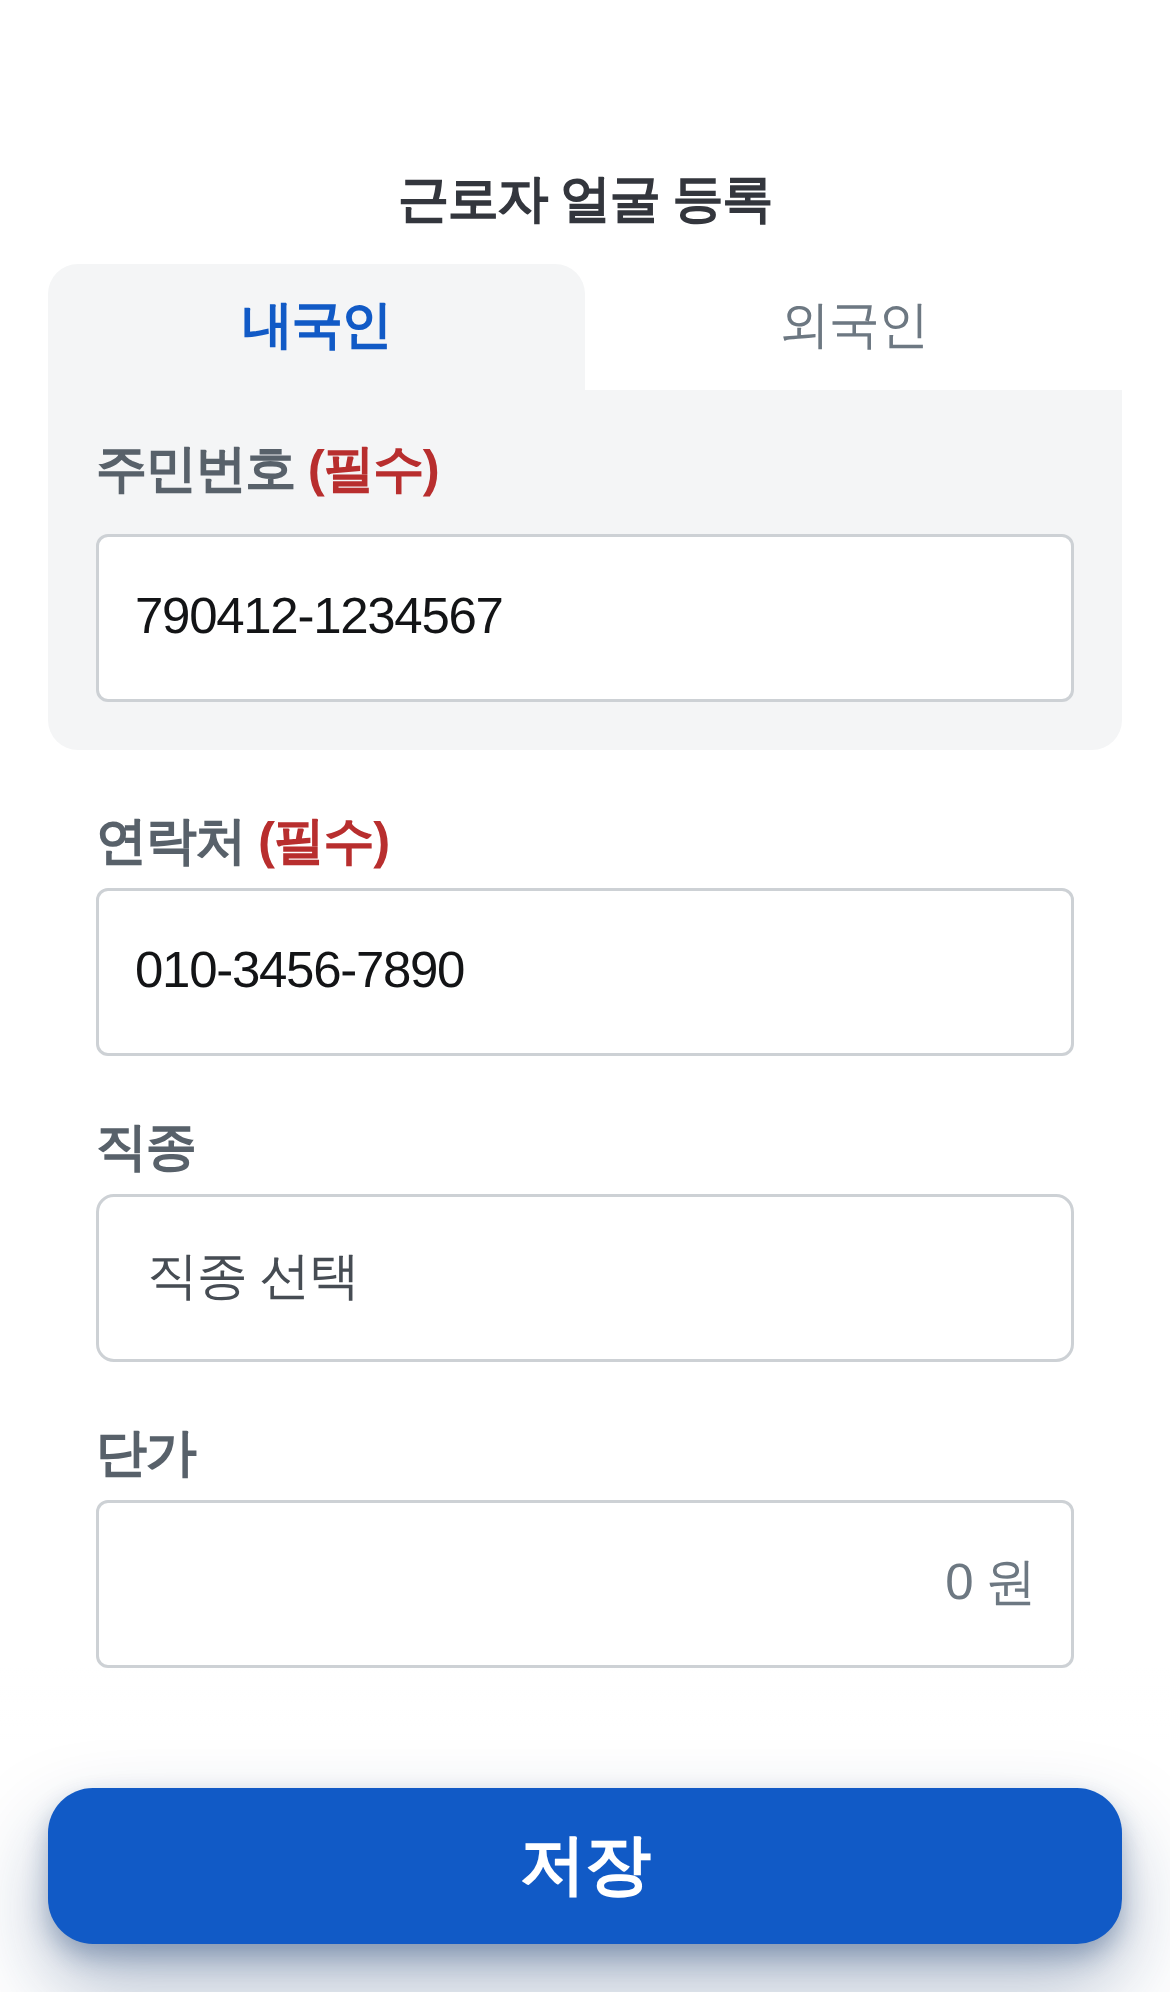
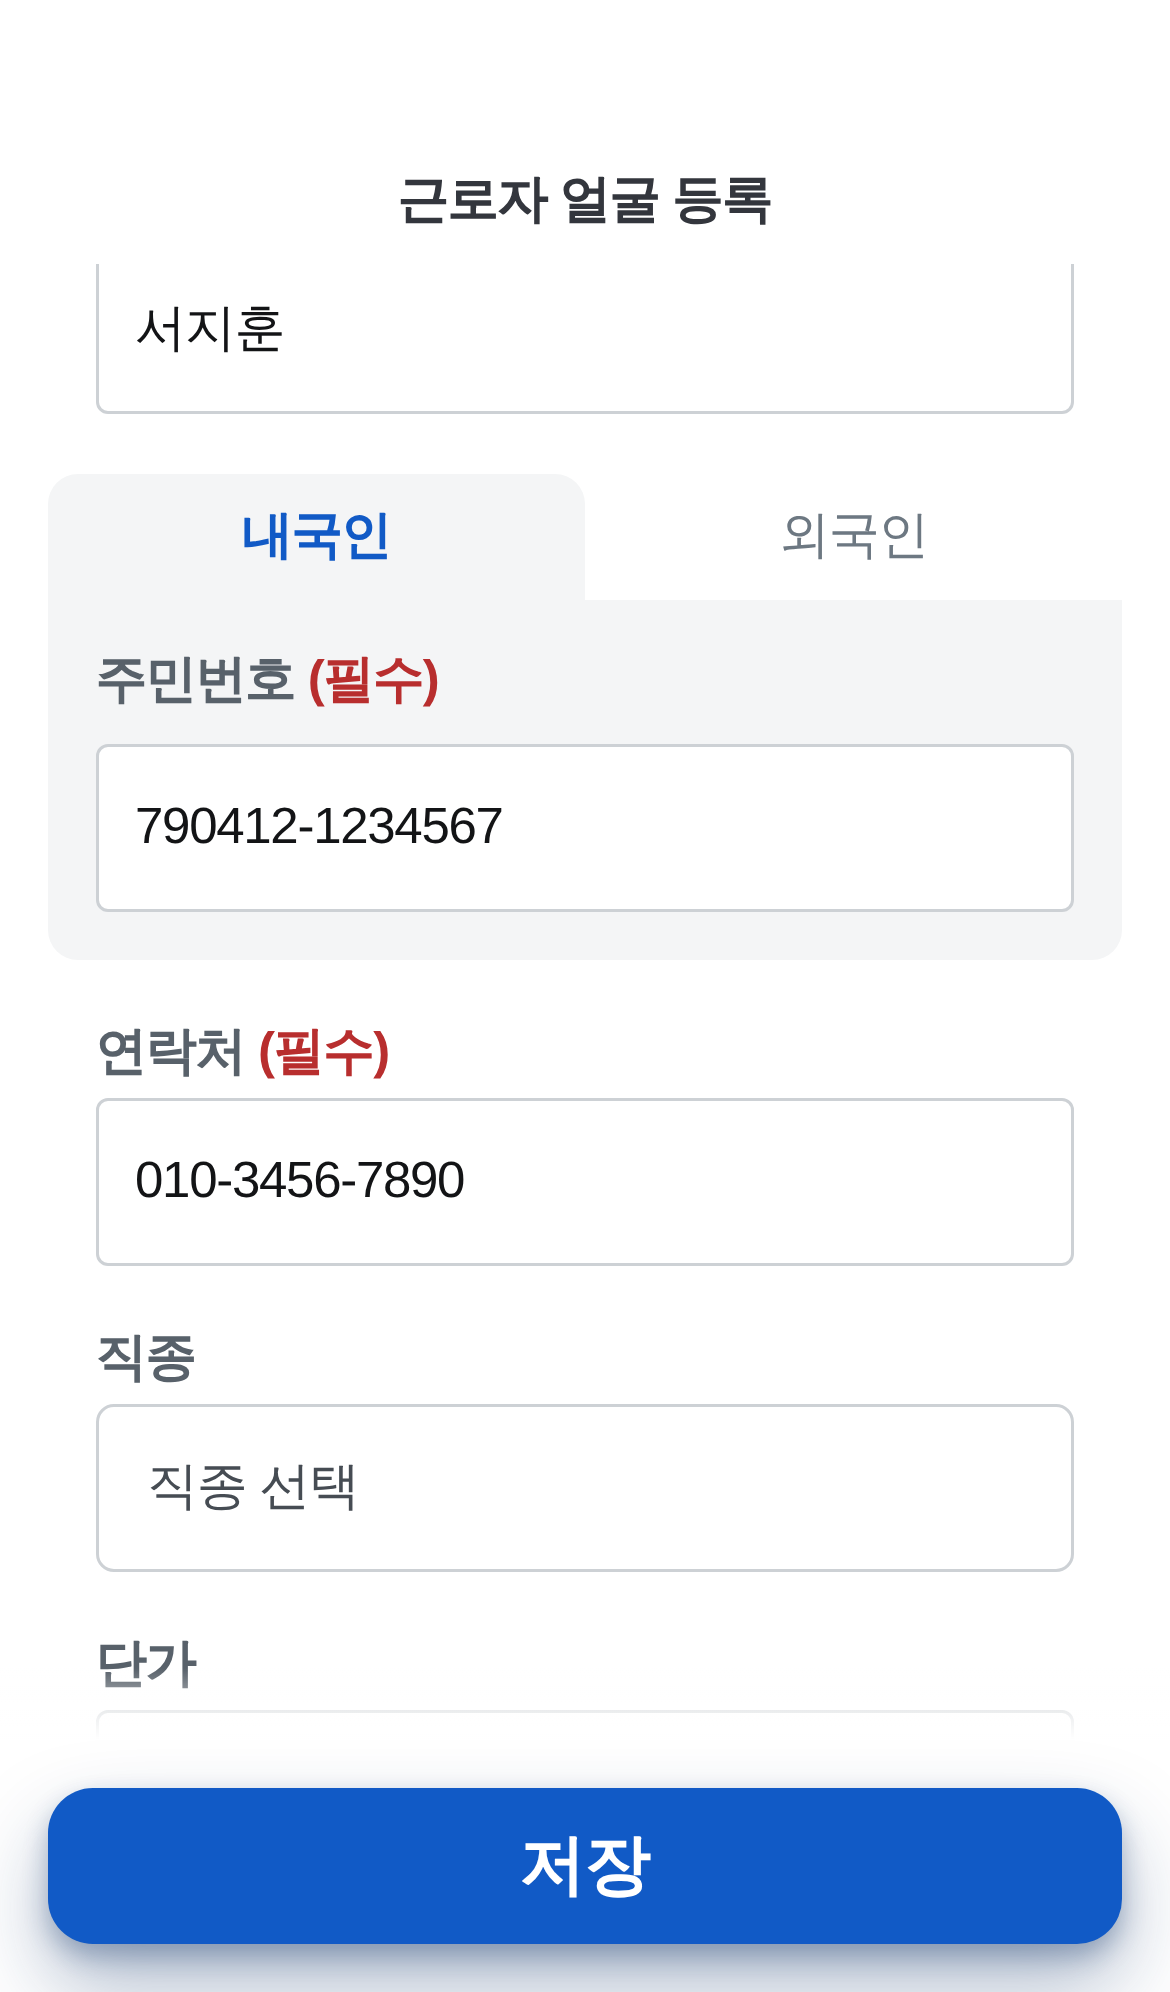
꼬리는 늘이기만 하지 않는다 — 줄이기도 한다
칸을 잡고 아래로 굴리면 그 칸이 묻는 줄 위로 올라가 가려졌다.

자판이 올라오면 화면이 줄어 **굴릴 수 있는 거리가 그만큼 늘어난다**.
그런데 늘여 둔 꼬리(--ap-flow-tail)는 자판이 없을 때 잡은 값 그대로였다 —
남는 거리만큼 더 굴러가, 적던 칸이 위로 빠져나갔다(번호 칸 위 -32).

꼬리를 **꼭 필요한 만큼**으로 매번 다시 잡는다. 늘이기만 하던 셈을
줄이기도 하게 고치고, 한 번 더 재어 모자란 만큼만 보탠다.

검사(자판 올린 뒤 끝까지 굴림):
  이름    끝까지 280 · 칸 위 212 = 묻는 줄 바닥
  연락처  끝까지 564 · 칸 위 212
  번호    전 -32 → 후 150(입력칸은 250, 가리지 않는다)
칸 열다섯 탈 0 · validate ✅ · 앵커 112/76 탈 0 · 흐름 끝까지 ·
cal__n--on 1 · 자산 647

⚠ 여권 차례처럼 칸이 큰 자리는 끝까지 굴리면 카드 윗동(탭)이 묻는 줄
아래로 들어간다 — 붙어 있는 줄 아래로 지나가는 것이라 그대로 둔다.

Claude-Session: https://claude.ai/code/session_01Mo5aPUH3u6bJkjNTNVj2HG

diff --git a/assets/face-attendance-app.js b/assets/face-attendance-app.js
@@ -1544,20 +1544,25 @@
        ⚠ 내용이 화면보다 짧으면 scrollHeight 가 화면 키로 바닥을 치므로
          (max), 늘인 만큼이 그대로 굴릴 거리가 되지 않는다 — 모자라면
          다시 재서 보탠다 */
+    /* ⚠ 꼬리는 **늘이기만 하지 않는다 — 줄이기도 한다.** 자판이 올라오면
+       화면이 줄어 굴릴 수 있는 거리가 그만큼 늘어난다. 꼬리를 그대로 두면
+       필요한 것보다 더 굴러가, 적던 칸이 묻는 줄 위로 올라가 가려졌다.
+       **꼭 필요한 만큼**으로 매번 다시 잡으면, 끝까지 굴려도 그 칸이 묻는
+       줄 바로 아래에 선다.
+       울타리의 자는 본문이 아니라 **화면의 키**다 — 늘인 것이 본문에 들면
+       본문도 함께 커져 제 꼬리를 제가 재는 꼴이 된다 */
     var tail = parseFloat(scr.style.getPropertyValue('--ap-flow-tail')) || 0;
-    /* ⚠ 늘이는 데에 **울타리를 친다**. 셈이 한 번 어긋나면 되먹임으로
-       자꾸 커진다. 아무리 늘려도 본문 한 키를 넘길 까닭이 없다.
-       자는 본문의 키가 아니라 **화면의 키**다 — 늘인 것이 본문에 들면
-       본문도 함께 커져, 제 꼬리를 제가 재는 꼴이 된다 */
     var cap = Math.max(0, Math.round(scr.getBoundingClientRect().height));
+    var want = Math.max(0, Math.min(cap, need - ((bd.scrollHeight - tail) - bd.clientHeight)));
+    if (want !== tail) {
+      tail = want;
+      scr.style.setProperty('--ap-flow-tail', tail + 'px');
+    }
+    /* 한 번 더 재어 모자란 만큼만 보탠다(어림수가 어긋날 때) */
     var room = bd.scrollHeight - bd.clientHeight;
-    for (var n = 0; n < 3 && room < need; n++) {
-      var was = room;
+    if (room < need && tail < cap) {
       tail = Math.min(cap, tail + (need - room));
       scr.style.setProperty('--ap-flow-tail', tail + 'px');
-      room = bd.scrollHeight - bd.clientHeight;
-      /* 늘였는데 굴릴 거리가 늘지 않으면 더 늘려도 소용없다 — 멈춘다 */
-      if (room <= was || tail >= cap) break;
     }
     var to = Math.min(need, bd.scrollHeight - bd.clientHeight);
     /* 차례가 넘어갈 때는 **스르륵** 간다 — 한 칸이 닫히고 다음 칸이 열리는

diff --git a/face-attendance-app.html b/face-attendance-app.html
@@ -13,12 +13,12 @@
      그동안 이 HTML 만 새로 받고 CSS 는 옛것이 남으면 화면이 반만 바뀐다 —
      고친 것이 안 보인다는 말이 거기서 나온다. **CSS·JS 를 고치면 이 수를
      함께 올린다.** -->
-<link rel="stylesheet" href="assets/face-attendance-app.css?v=646">
+<link rel="stylesheet" href="assets/face-attendance-app.css?v=647">
 <!-- ⚠ defer 가 없다. 화면 밖에 남는 띠의 색을 기기가 **첫 그림에서 한 번**
      집어 가므로, 그 색을 정하는 일이 문서가 그려지기 전에 끝나야 한다
      (assets/face-attendance-app.js 의 edge). 나머지 일은 그 안에서
      DOMContentLoaded 를 기다린다 -->
-<script src="assets/face-attendance-app.js?v=646"></script>
+<script src="assets/face-attendance-app.js?v=647"></script>
 </head>
 
 <body>

diff --git a/face-attendance-worker.html b/face-attendance-worker.html
@@ -44,12 +44,12 @@
      그동안 이 HTML 만 새로 받고 CSS 는 옛것이 남으면 화면이 반만 바뀐다 —
      고친 것이 안 보인다는 말이 거기서 나온다. **CSS·JS 를 고치면 이 수를
      함께 올린다.** -->
-<link rel="stylesheet" href="assets/face-attendance-app.css?v=646">
+<link rel="stylesheet" href="assets/face-attendance-app.css?v=647">
 <!-- ⚠ defer 가 없다. 화면 밖에 남는 띠의 색을 기기가 **첫 그림에서 한 번**
      집어 가므로, 그 색을 정하는 일이 문서가 그려지기 전에 끝나야 한다
      (assets/face-attendance-app.js 의 edge). 나머지 일은 그 안에서
      DOMContentLoaded 를 기다린다 -->
-<script src="assets/face-attendance-app.js?v=646"></script>
+<script src="assets/face-attendance-app.js?v=647"></script>
 </head>
 
 <body>
